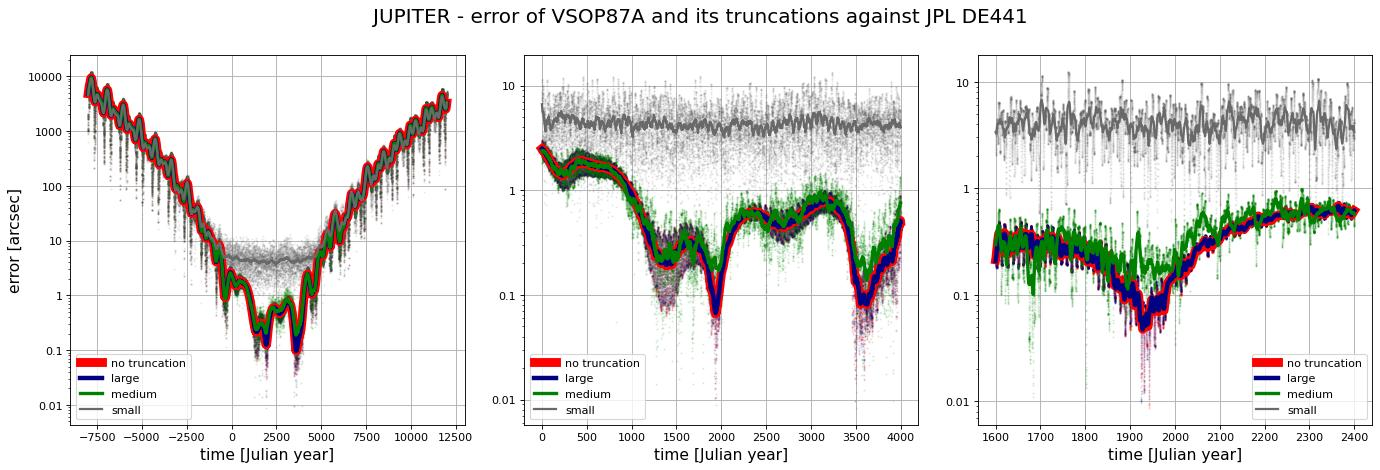
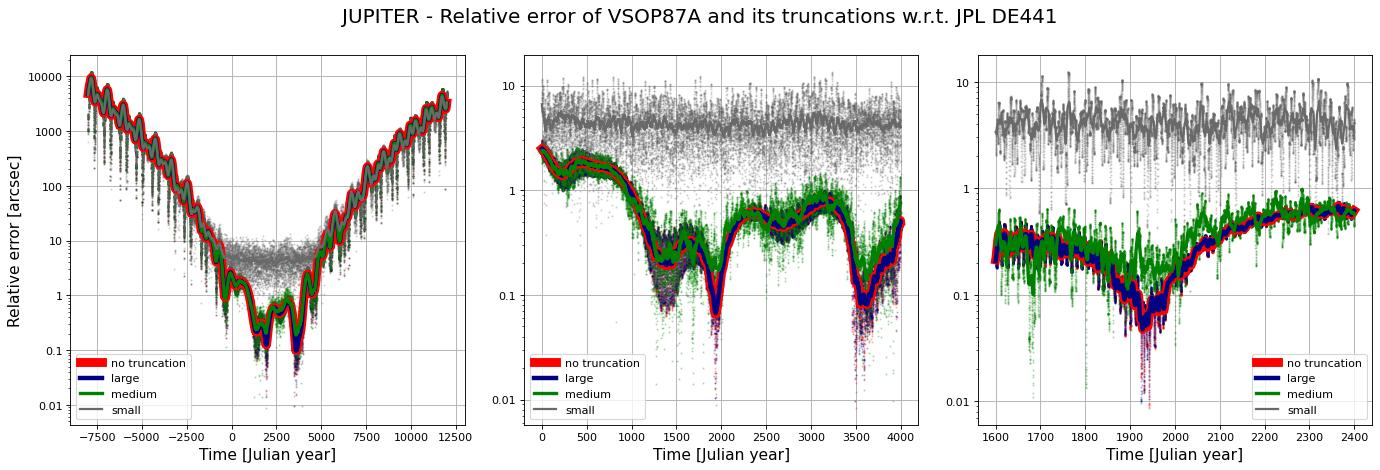
added explanation for use of arcsec in relative error

diff --git a/plot_errors.py b/plot_errors.py
@@ -84,15 +84,15 @@ def plot_errors(jpl_pv, my_pv, title):
 
             errors_avg = moving_average(errors[:,1], 100)
 
-            ax.scatter(errors[:,0], errors[:,1], s=1, color=color, alpha=0.1)
+            ax.scatter(errors[:,0], errors[:,1], s=1, color=color, alpha=0.2)
             ax.plot(errors[:,0], errors_avg, color=color, linewidth=line_width, label=size if size != 'raw' else 'no truncation')
 
         ax.set_yscale('log')
         ax.yaxis.set_major_formatter(ticker.FuncFormatter(lambda val, pos: str(int(val) if val.is_integer() else val)))
         # ax.set_xscale('symlog')
-        ax.set_xlabel('time [Julian year]', fontsize=14)
+        ax.set_xlabel('Time [Julian year]', fontsize=14)
         if ax_index == 0:
-            ax.set_ylabel('error [arcsec]', fontsize=14)
+            ax.set_ylabel(R'Relative error [arcsec]', fontsize=14)
         # ax.set_title(title)
         ax.set_axisbelow(True)
         ax.grid()
@@ -124,7 +124,7 @@ def main():
         # Moon
         jpl_pv_moon = lambda t: jpl_pos_vel([399, 3, 301], t)
         pv = lambda size, t: mpp02[size].get_pos_vel(t)
-        fig = plot_errors(jpl_pv_moon, pv, 'MOON - error of MPP02 and its truncations against JPL DE441')
+        fig = plot_errors(jpl_pv_moon, pv, 'MOON - Relative error of ELP/MPP02 and its truncations w.r.t. JPL DE441')
         save_image(fig, file_path = f'{PLOT_SAVE_DIRECTORY}/error_moon.jpg')
 
         # Planets
@@ -133,7 +133,7 @@ def main():
                 continue
             jpl_pv_moon = lambda t: jpl_pos_vel(JPL_DE_ROUTES[body_name], t)
             pv = lambda size, t: vsop87a[size].get_pos_vel(body_name, t)
-            fig = plot_errors(jpl_pv_moon, pv, f'{body_name} - error of VSOP87A and its truncations against JPL DE441')
+            fig = plot_errors(jpl_pv_moon, pv, f'{body_name} - Relative error of VSOP87A and its truncations w.r.t. JPL DE441')
             save_image(fig, file_path = f'{PLOT_SAVE_DIRECTORY}/error_{body_name.lower()}.jpg')
 
 if __name__ == '__main__':

diff --git a/README.md b/README.md
@@ -4,7 +4,11 @@
 
 ## Accuracy of the series
 
-We measure the accuracy of the raw and truncated series against [JPL DE441](https://ssd.jpl.nasa.gov/doc/de440_de441.html).
+We measure the accuracy of the raw and truncated series with respect to [JPL DE441](https://ssd.jpl.nasa.gov/doc/de440_de441.html). The results are below. The continuous curves in the plots are moving averages of the errors, not direct error measurements. The y-axis in the plots represents the relative error with respect to the Sun, given by 
+$$
+\frac{|p(t)-p_{\rm DE441}(t)|}{|p_{\rm DE441}(t)|}.
+$$
+For convenience, the error is reported in arcseconds (with $1''=\pi/180/3600$). In the tangential case it approximates angular separation in arcseconds.
 
 <details open>
 <summary>The Moon</summary>
@@ -12,40 +16,48 @@ We measure the accuracy of the raw and truncated series against [JPL DE441](http
 ![Error plot for the Moon](./images/error_moon.jpg)
 </details>
 <details>
+
 <summary>Mercury</summary>
 
 ![Error plot for Mercury](./images/error_mercury.jpg)
 </details>
+
 <details>
 <summary>Venus</summary>
 
 ![Error plot for Venus](./images/error_venus.jpg)
 </details>
-<details>
-<summary>Mars</summary>
 
-![Error plot for Mars](./images/error_mars.jpg)
-</details>
 <details>
 <summary>Earth-Moon barycenter</summary>
 
 ![Error plot for EMB](./images/error_earth-moon.jpg)
 </details>
+
+<details>
+<summary>Mars</summary>
+
+![Error plot for Mars](./images/error_mars.jpg)
+</details>
+
 <details>
 <summary>Jupiter</summary>
 
 ![Error plot for Jupiter](./images/error_jupiter.jpg)
 </details>
+
 <details>
 <summary>Saturn</summary>
 
 ![Error plot for Saturn](./images/error_saturn.jpg)
 </details>
+
 <details>
 <summary>Uranus</summary>
 
 ![Error plot for Uranus](./images/error_uranus.jpg)
 </details>
+
 <details>
 <summary>Neptune</summary>
 
